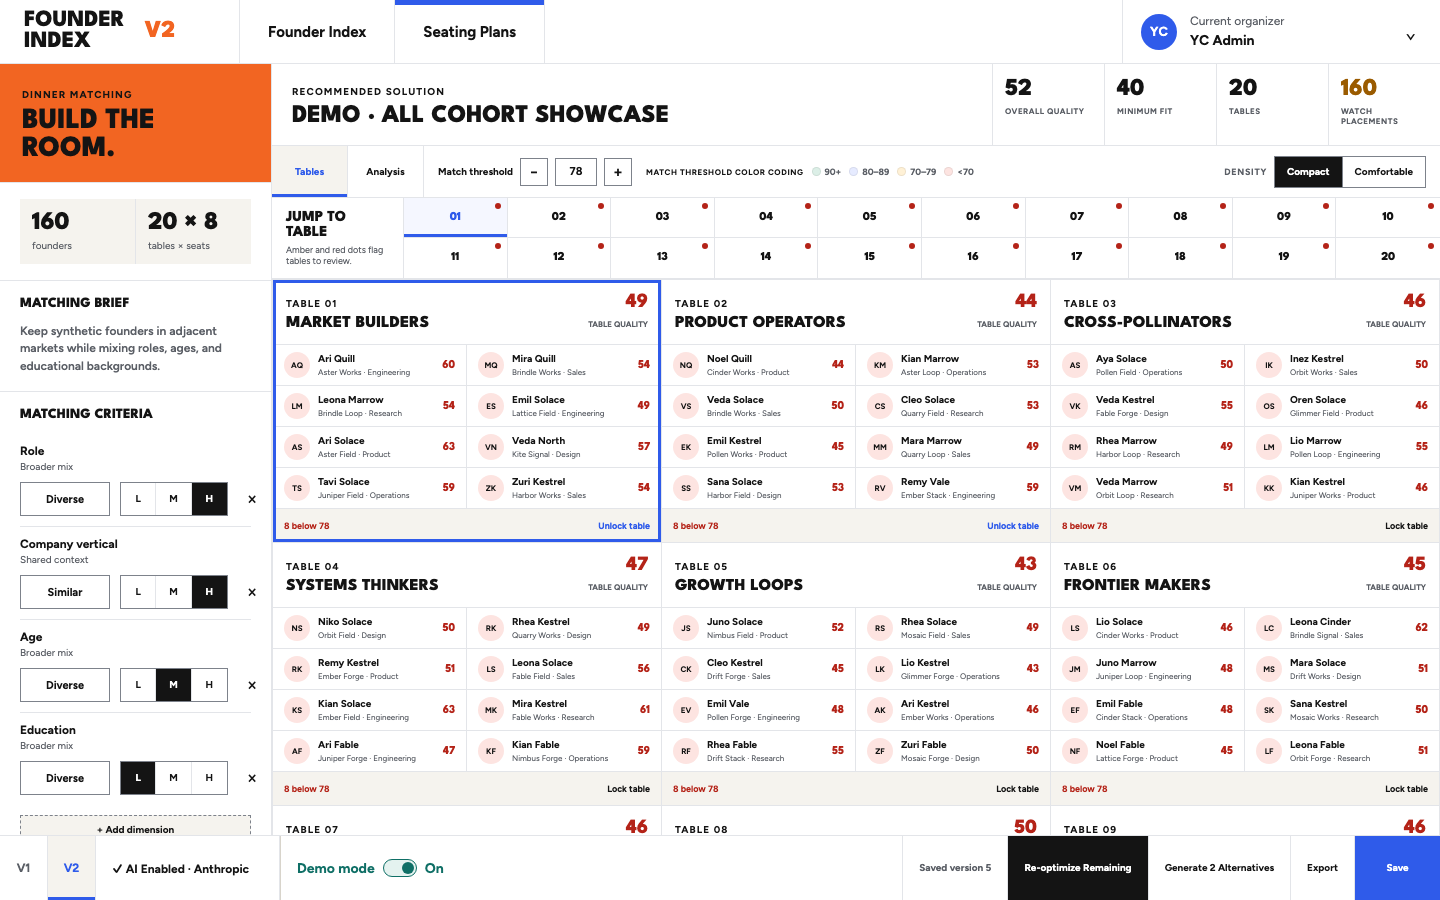
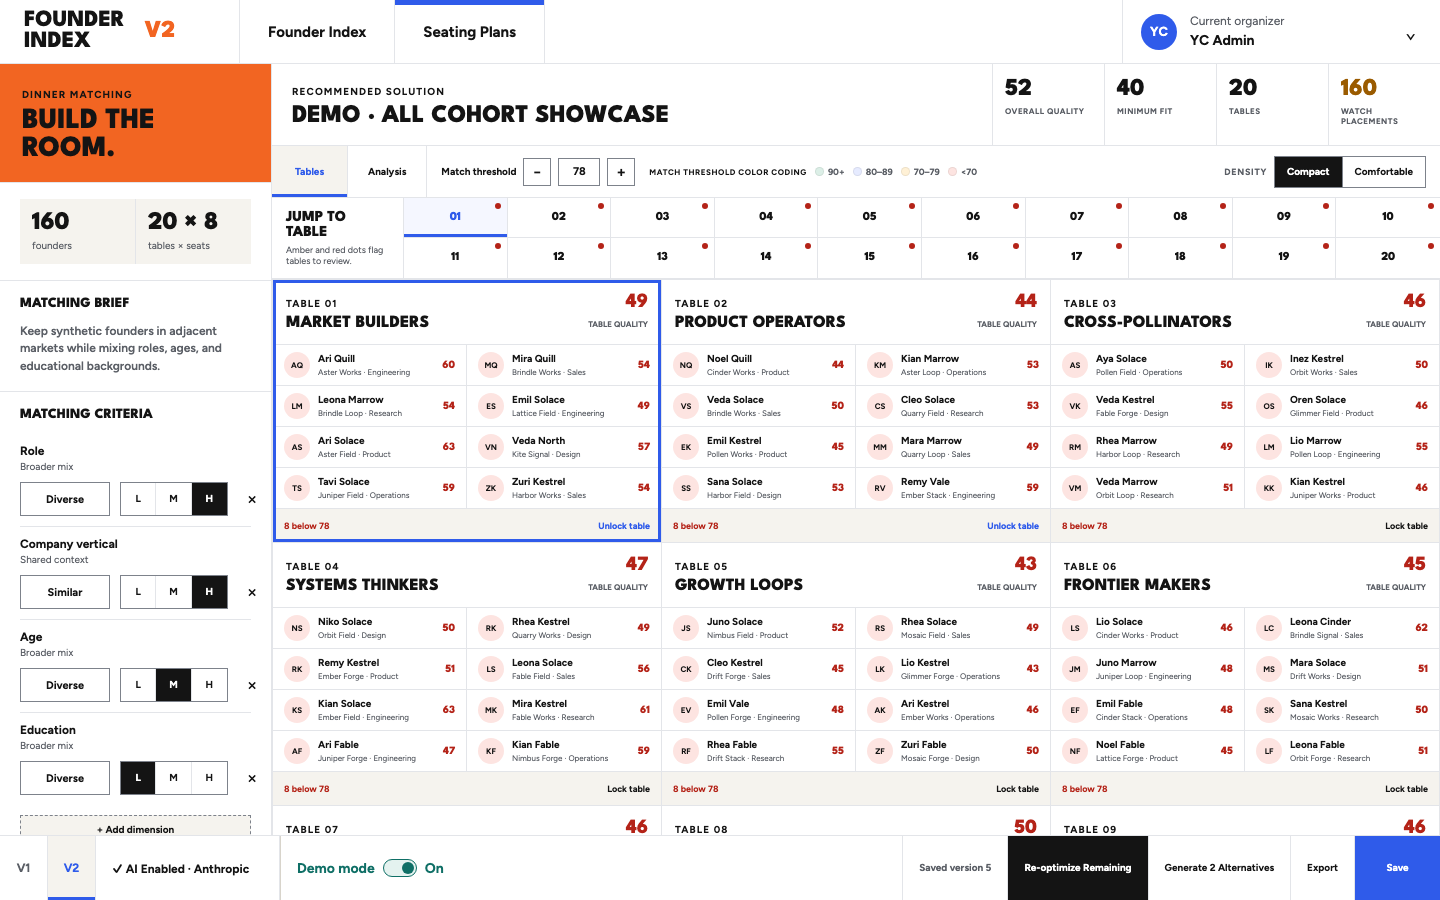
feat: make Founder Index responsive
Copilot-Session: 48816420-e146-4179-a56c-0c59fcc154ad

Changed region(s): [[0.4375, 0.1867, 0.6875, 0.2178], [0.25, 0.1867, 0.4062, 0.2178]]

diff --git a/src/v2/search/search.css b/src/v2/search/search.css
@@ -598,6 +598,84 @@
   .v2-picker { width: 640px; }
 }
 
+@media (max-width: 900px) {
+  .v2-search-main { min-width: 0; }
+  .v2-hero { height: auto; grid-template-columns: 1fr; }
+  .v2-hero-title { min-height: 150px; }
+  .v2-hero-title h1 { max-width: 340px; }
+  .v2-search-area { padding: 32px 28px 36px; }
+  .v2-query { width: 100%; min-width: 0; }
+  .v2-toolbar {
+    height: auto;
+    grid-template-columns: 108px minmax(0, 1fr) minmax(0, 1fr) auto;
+    grid-template-rows: 74px 58px;
+  }
+  .v2-result-count { grid-row: 1 / 3; padding: 0 18px; }
+  .v2-dimensions { grid-column: 2 / 5; padding-inline: 16px; border-bottom: 1px solid var(--line); }
+  .v2-select-cell { min-width: 0; padding: 8px; }
+  .v2-select { width: 100%; min-width: 0; height: 42px; }
+  .v2-view-switch { padding: 7px 10px; align-items: center; }
+  .v2-picker { top: 70px; left: 16px; width: min(640px, calc(100vw - 156px)); }
+  .v2-founder-grid { grid-template-columns: repeat(2, minmax(0, 1fr)); }
+  .v2-recommendation-columns { grid-template-columns: repeat(2, minmax(0, 1fr)); }
+  .v2-recommendation-column:nth-child(2) { border-right: 0; }
+  .v2-recommendation-column:last-child { grid-column: 1 / -1; border-top: 1px solid var(--line); }
+  .v2-empty-summary { grid-template-columns: 180px minmax(0, 1fr); }
+  .v2-empty-actions { grid-column: 1 / -1; flex-direction: row; padding: 20px; border-top: 1px solid var(--line); }
+}
+
+@media (max-width: 620px) {
+  .v2-search-main.v2-search-zero { min-height: calc(100vh - 177px); }
+  .v2-search-zero .v2-hero { flex-basis: auto; }
+  .v2-hero-title { min-height: 158px; padding: 24px 20px; }
+  .v2-hero-title h1 { max-width: 280px; font-size: 36px; }
+  .v2-search-area { padding: 26px 20px 30px; }
+  .v2-query { height: auto; grid-template-columns: 1fr; }
+  .v2-query input { min-height: 58px; font-size: 16px; }
+  .v2-query button { min-height: 48px; border-top: 1px solid var(--ink); border-left: 0; }
+  .v2-toolbar {
+    grid-template-columns: 88px minmax(0, 1fr);
+    grid-template-rows: auto auto auto auto;
+  }
+  .v2-result-count { grid-column: 1; grid-row: 1; min-height: 82px; padding: 0 14px; }
+  .v2-result-count strong { top: 5px; font-size: 32px; }
+  .v2-dimensions { grid-column: 2; grid-row: 1; min-height: 82px; padding: 10px 12px; }
+  .v2-select-cell { min-height: 58px; padding: 8px 12px; border-top: 1px solid var(--line); }
+  .v2-toolbar > .v2-select-cell:nth-child(3) { grid-column: 1; grid-row: 2; }
+  .v2-toolbar > .v2-select-cell:nth-child(4) { grid-column: 2; grid-row: 2; }
+  .v2-view-switch { grid-column: 1 / -1; grid-row: 3; justify-content: flex-end; border-top: 1px solid var(--line); }
+  .v2-add-dimension, .v2-dimension { min-height: 44px; }
+  .v2-picker {
+    position: fixed;
+    top: 128px;
+    left: 16px;
+    width: calc(100vw - 32px);
+    max-height: calc(100dvh - 209px);
+    overflow: auto;
+  }
+  .v2-picker-head { height: 56px; }
+  .v2-picker-close { width: 44px; height: 44px; }
+  .v2-picker-body { height: auto; grid-template-columns: 1fr; }
+  .v2-field-panel { border-right: 0; border-bottom: 1px solid var(--line); }
+  .v2-founder-grid { grid-template-columns: 1fr; }
+  .v2-recommendation-columns { grid-template-columns: 1fr; }
+  .v2-recommendation-column, .v2-recommendation-column:nth-child(2) { border-right: 0; border-bottom: 1px solid var(--line); }
+  .v2-recommendation-column:last-child { grid-column: auto; border-top: 0; }
+  .v2-recommendation-founder { min-height: 84px; grid-template-columns: minmax(0, 1fr); gap: 8px; padding-block: 10px; }
+  .v2-recommendation-list-head { display: none; }
+  .v2-recommendation-reason { padding-left: 48px; }
+  .v2-table-head { display: none; }
+  .v2-founder-row { display: block; padding: 16px 20px; }
+  .v2-founder-row > * { margin-top: 10px; }
+  .v2-founder-row .v2-identity { margin-top: 0; }
+  .v2-founder-row .v2-more { width: 100%; justify-content: flex-start; margin-top: 8px; }
+  .v2-founder-row .v2-details { margin: 14px 0 0; }
+  .v2-founder-row .v2-details-grid { grid-template-columns: 1fr 1fr; }
+  .v2-empty-summary { grid-template-columns: 1fr; }
+  .v2-empty-zero, .v2-empty-message { border-right: 0; border-bottom: 1px solid var(--line); }
+  .v2-empty-actions { grid-column: auto; flex-direction: column; }
+}
+
 @media (prefers-reduced-motion: no-preference) {
   .v2-picker { animation: v2-open-picker 160ms ease-out; transform-origin: 44px 0; }
   .v2-founder-card,

diff --git a/src/v2/dinner/dinnerResponsive.test.ts b/src/v2/dinner/dinnerResponsive.test.ts
@@ -3,6 +3,48 @@ import { resolve } from 'node:path'
 import { describe, expect, it } from 'vitest'
 
 const read = (file: string) => readFileSync(resolve(process.cwd(), 'src/v2/dinner', file), 'utf8')
+const readV2 = (file: string) => readFileSync(resolve(process.cwd(), 'src/v2', file), 'utf8')
+
+describe('V2 shared responsive shell', () => {
+  it('removes the desktop minimum width and creates a two-row mobile header', () => {
+    const css = readV2('search/v2-chrome.css')
+    const tablet = css.slice(css.indexOf('@media (max-width: 900px)'), css.indexOf('@media (max-width: 620px)'))
+    const phone = css.slice(css.indexOf('@media (max-width: 620px)'))
+
+    expect(tablet).toMatch(/\.v2-topbar \{[^}]*min-width: 0/)
+    expect(phone).toMatch(/\.v2-topbar \{[^}]*grid-template-rows: 64px 48px/)
+    expect(phone).toMatch(/\.v2-nav \{[^}]*grid-column: 1 \/ -1/)
+  })
+
+  it('keeps the mobile footer inside the safe area', () => {
+    const css = readV2('layout/v2-footer-actions.css')
+    expect(css).toMatch(/env\(safe-area-inset-bottom\)/)
+  })
+})
+
+describe('V2 responsive routes', () => {
+  it('stacks Search and constrains its picker to the viewport', () => {
+    const css = readV2('search/search.css')
+    const tablet = css.slice(css.indexOf('@media (max-width: 900px)'), css.indexOf('@media (max-width: 620px)'))
+    const phone = css.slice(css.indexOf('@media (max-width: 620px)'))
+
+    expect(tablet).toMatch(/\.v2-hero \{[^}]*grid-template-columns: 1fr/)
+    expect(tablet).toMatch(/\.v2-founder-grid \{[^}]*grid-template-columns: repeat\(2/)
+    expect(phone).toMatch(/\.v2-recommendation-columns \{[^}]*grid-template-columns: 1fr/)
+    expect(phone).toMatch(/\.v2-founder-grid \{[^}]*grid-template-columns: 1fr/)
+    expect(phone).toMatch(/\.v2-picker \{[^}]*width: calc\(100vw - 32px\)/)
+  })
+
+  it('gives secondary-route mobile controls adequate hit areas', () => {
+    const plans = read('seating-plans.css')
+    const ai = readV2('settings/ai-provider.css')
+    const evidence = readV2('evidence/founder-evidence.css')
+
+    expect(plans).toMatch(/@container plans \(max-width: 760px\)[\s\S]*\.v2-plans-dialog-close \{[^}]*width: 44px;[^}]*height: 44px/)
+    expect(ai).toMatch(/@media \(max-width: 620px\)[\s\S]*\.v2-ai-config \{[^}]*padding: 24px 20px/)
+    expect(evidence).toMatch(/@media \(max-width: 640px\)[\s\S]*\.v2-evidence-close \{[^}]*width: 44px;[^}]*height: 44px/)
+  })
+})
 
 describe('Dinner and Seating Plans responsive header', () => {
   it('is shared by both workbench pages', () => {
@@ -42,6 +84,10 @@ describe('Dinner tables responsive grid', () => {
     const phone = css.slice(css.indexOf('@container dinner (max-width: 560px)'))
     expect(tablet).toMatch(/\.v2-dinner-work-tools \{[^}]*padding: 0 10px 0 0/)
     expect(phone).toMatch(/\.v2-dinner-work-tools \{[^}]*padding: 0 8px 0 0/)
+    expect(css).toMatch(/\.v2-dinner-segmented button \{[^}]*padding: 0 20px/)
+    expect(phone).toMatch(/\.v2-dinner-density \{[^}]*display: none/)
+    expect(phone).toMatch(/\.v2-dinner-threshold \{[^}]*margin-left: auto/)
+    expect(phone).toMatch(/\.v2-dinner-segmented button \{[^}]*padding: 0 14px/)
   })
 
   it('drops to the reference two-card tablet grid before three cards squeeze founder names', () => {

diff --git a/src/v2/search/v2-chrome.css b/src/v2/search/v2-chrome.css
@@ -253,3 +253,43 @@
 @media (max-width: 1100px) {
   .v2-topbar { grid-template-columns: 210px 1fr 260px; }
 }
+
+@media (max-width: 900px) {
+  .v2-topbar { min-width: 0; grid-template-columns: 190px minmax(0, 1fr) 190px; }
+  .v2-brand { min-width: 0; padding-inline: 18px; }
+  .v2-nav { min-width: 0; }
+  .v2-nav-item { min-width: 0; justify-content: center; padding-inline: 16px; font-size: 12px; }
+  .v2-profile { min-width: 0; }
+  .v2-profile-trigger { padding-inline: 14px; }
+}
+
+@media (max-width: 620px) {
+  .v2-shell { padding-bottom: calc(65px + env(safe-area-inset-bottom)); }
+  .v2-topbar {
+    height: 112px;
+    grid-template-columns: minmax(0, 1fr) 116px;
+    grid-template-rows: 64px 48px;
+  }
+  .v2-brand { grid-column: 1; grid-row: 1; border-right: 0; }
+  .v2-nav { grid-column: 1 / -1; grid-row: 2; border-top: 1px solid var(--line); }
+  .v2-nav-item { flex: 1; min-height: 48px; padding: 0 10px; border-top: 0; }
+  .v2-profile { grid-column: 2; grid-row: 1; }
+  .v2-profile-trigger { gap: 8px; padding: 0 10px; }
+  .v2-profile-avatar { width: 30px; height: 30px; flex-basis: 30px; }
+  .v2-profile small, .v2-chevron { display: none; }
+  .v2-profile strong { overflow: hidden; font-size: 11px; text-overflow: ellipsis; white-space: nowrap; }
+  .v2-profile-menu { width: min(318px, 100vw); }
+  .v2-account-callout { top: 124px; right: 10px; width: min(286px, calc(100vw - 20px)); }
+  .v2-footer {
+    height: calc(65px + env(safe-area-inset-bottom));
+    grid-template-columns: 0 48px 0 minmax(80px, 1fr) 74px 138px;
+    padding-bottom: env(safe-area-inset-bottom);
+  }
+  .v2-footer > .v2-version-link:first-child,
+  .v2-footer > .v2-footer-ai { visibility: hidden; overflow: hidden; padding: 0; border: 0; }
+  .v2-footer-demo { justify-content: center; padding-inline: 8px; }
+  .v2-footer-demo > span:first-child { display: none; }
+  .v2-footer .v2-footer-export,
+  .v2-footer.v2-footer-founder .v2-footer-export { grid-column: 5; width: auto; font-size: 10px; }
+  .v2-footer .v2-footer-create { grid-column: 6; padding-inline: 8px; font-size: 10px; line-height: 1.15; }
+}

diff --git a/src/v2/dinner/dinner-results.css b/src/v2/dinner/dinner-results.css
@@ -37,7 +37,7 @@
 .v2-dinner-metric.v2-dinner-alert strong { color: #9a5b00; }
 .v2-dinner-work-tools { min-height: 52px; display: flex; align-items: center; justify-content: flex-start; gap: 14px; padding: 0 14px 0 0; border-bottom: 1px solid var(--line); background: white; }
 .v2-dinner-segmented { align-self: stretch; display: flex; align-items: stretch; }
-.v2-dinner-segmented button { height: 100%; min-width: 76px; padding: 0 16px; border: 0; border-right: 1px solid var(--line); background: white; color: var(--ink-muted); font-size: 10px; font-weight: 800; }
+.v2-dinner-segmented button { height: 100%; min-width: 76px; padding: 0 20px; border: 0; border-right: 1px solid var(--line); background: white; color: var(--ink-muted); font-size: 10px; font-weight: 800; }
 .v2-dinner-segmented .v2-dinner-active { box-shadow: inset 0 -3px var(--v2-blue); background: var(--surface-alt); color: var(--v2-blue); }
 .v2-dinner-density { margin-left: auto; display: flex; align-items: center; }
 .v2-dinner-density button { min-height: 32px; padding: 0 12px; border: 1px solid var(--line-strong); border-right: 0; background: white; font-size: 10px; font-weight: 800; }
@@ -208,8 +208,9 @@
   .v2-dinner-metric span { font-size: 7px; }
   .v2-dinner-work-tools { min-height: 47px; gap: 6px; padding: 0 8px 0 0; }
   .v2-dinner-tool-left, .v2-dinner-tool-right { gap: 6px; }
-  .v2-dinner-density, .v2-dinner-threshold { display: none; }
-  .v2-dinner-segmented button { min-height: 30px; padding: 0 10px; }
+  .v2-dinner-density { display: none; }
+  .v2-dinner-threshold { margin-left: auto; gap: 4px; font-size: 9px; }
+  .v2-dinner-segmented button { min-height: 30px; padding: 0 14px; }
   .v2-dinner-table-workspace { grid-template-rows: 48px minmax(0, 1fr); }
   .v2-dinner-index-grid { width: max-content; height: 47px; display: flex; }
   .v2-dinner-index-button { width: 48px; min-height: 47px; border-bottom: 0; }

diff --git a/e2e/v2.spec.ts b/e2e/v2.spec.ts
@@ -45,3 +45,40 @@ test('shows top web results in a drawer and secure AI setup', async ({ page }) =
   }))
   expect(JSON.stringify(storage)).not.toContain('DEMO-secret')
 })
+
+test('keeps every V2 route inside mobile and tablet viewports', async ({ page }) => {
+  const routes = [
+    '/v2',
+    '/v2/seating-plans',
+    '/v2/settings/ai',
+    '/v2/founders/demo-founder-ae527df17156/evidence',
+  ]
+
+  for (const width of [390, 768]) {
+    await page.setViewportSize({ width, height: width === 390 ? 844 : 1024 })
+
+    for (const route of routes) {
+      await page.goto(route)
+      await expect
+        .poll(() =>
+          page.evaluate(() => ({
+            clientWidth: document.documentElement.clientWidth,
+            scrollWidth: document.documentElement.scrollWidth,
+          })),
+        )
+        .toEqual({ clientWidth: width, scrollWidth: width })
+    }
+
+    await page.goto('/v2/seating-plans')
+    await page.getByRole('button', { name: 'Reopen' }).first().click()
+    await expect(page).toHaveURL(/\/v2\/dinner\?plan=/)
+    await expect
+      .poll(() =>
+        page.evaluate(() => ({
+          clientWidth: document.documentElement.clientWidth,
+          scrollWidth: document.documentElement.scrollWidth,
+        })),
+      )
+      .toEqual({ clientWidth: width, scrollWidth: width })
+  }
+})

diff --git a/src/v2/dinner/seating-plans.css b/src/v2/dinner/seating-plans.css
@@ -158,4 +158,9 @@
   .v2-plans-empty-copy h2 { font-size: 34px; }
   .v2-plans-empty-cta { min-width: 0; width: 100%; }
   .v2-plans-empty-visual { min-height: 300px; border-top: 1px solid var(--line); border-left: 0; }
+  .v2-plans-row-actions button, .v2-plans-version-row button { min-height: 44px; }
+  .v2-plans-dialog { width: calc(100vw - 32px); max-height: calc(100dvh - 32px); overflow: auto; }
+  .v2-plans-dialog-close { width: 44px; height: 44px; }
+  .v2-plans-dialog-actions { height: auto; display: grid; grid-template-columns: 1fr 1fr; }
+  .v2-plans-dialog-actions button, .v2-plans-dialog-actions .v2-plans-confirm-delete { min-width: 0; min-height: 52px; }
 }

diff --git a/src/v2/settings/ai-provider.css b/src/v2/settings/ai-provider.css
@@ -48,6 +48,9 @@
   .v2-ai-form-row { grid-template-columns: 1fr; }
 }
 @media (max-width: 620px) {
+  .v2-ai-title-block, .v2-ai-head-copy { padding: 24px 20px; }
+  .v2-ai-config { padding: 24px 20px 32px; }
+  .v2-ai-security { padding: 24px 20px; }
   .v2-ai-provider-grid { grid-template-columns: 1fr; }
   .v2-ai-provider-grid button { border-right: 1px solid #141414; border-bottom: 0; }
   .v2-ai-provider-grid button:last-child { border-bottom: 1px solid #141414; }
@@ -58,5 +61,6 @@
   .v2-ai-validation-head > button {
     grid-column: 1 / -1;
     width: 100%;
+    min-height: 44px;
   }
 }

diff --git a/src/v2/layout/v2-footer-actions.css b/src/v2/layout/v2-footer-actions.css
@@ -125,7 +125,11 @@
 }
 
 @media (max-width: 560px) {
-  .v2-footer.v2-footer-with-actions { grid-template-columns: 0 48px 0 0 minmax(0, 1fr); }
+  .v2-footer.v2-footer-with-actions {
+    height: calc(65px + env(safe-area-inset-bottom));
+    grid-template-columns: 0 48px 0 0 minmax(0, 1fr);
+    padding-bottom: env(safe-area-inset-bottom);
+  }
   .v2-footer.v2-footer-with-actions > .v2-version-link:first-child,
   .v2-footer.v2-footer-with-actions > div[aria-hidden="true"] { visibility: hidden; overflow: hidden; border: 0; }
   .v2-footer-actions { min-width: 0; overflow-x: auto; }

diff --git a/src/v2/dinner/SeatingPlansPage.tsx b/src/v2/dinner/SeatingPlansPage.tsx
@@ -306,9 +306,9 @@ export function SeatingPlansPage({
                       +
                     </span>
                     <span>
-                      New
+                      New{' '}
                       <br />
-                      seating
+                      seating{' '}
                       <br />
                       plan
                     </span>

diff --git a/src/v2/evidence/founder-evidence.css b/src/v2/evidence/founder-evidence.css
@@ -42,6 +42,7 @@
 @keyframes v2-evidence-fade { from { opacity: 0; } to { opacity: 1; } }
 @media (max-width: 640px) {
   .v2-evidence-drawer { width: 100vw; border-left: 0; }
+  .v2-evidence-close { width: 44px; height: 44px; }
   .v2-evidence-title { min-height: 78px; }
   .v2-evidence-title h2 { font-size: 24px; }
 }
